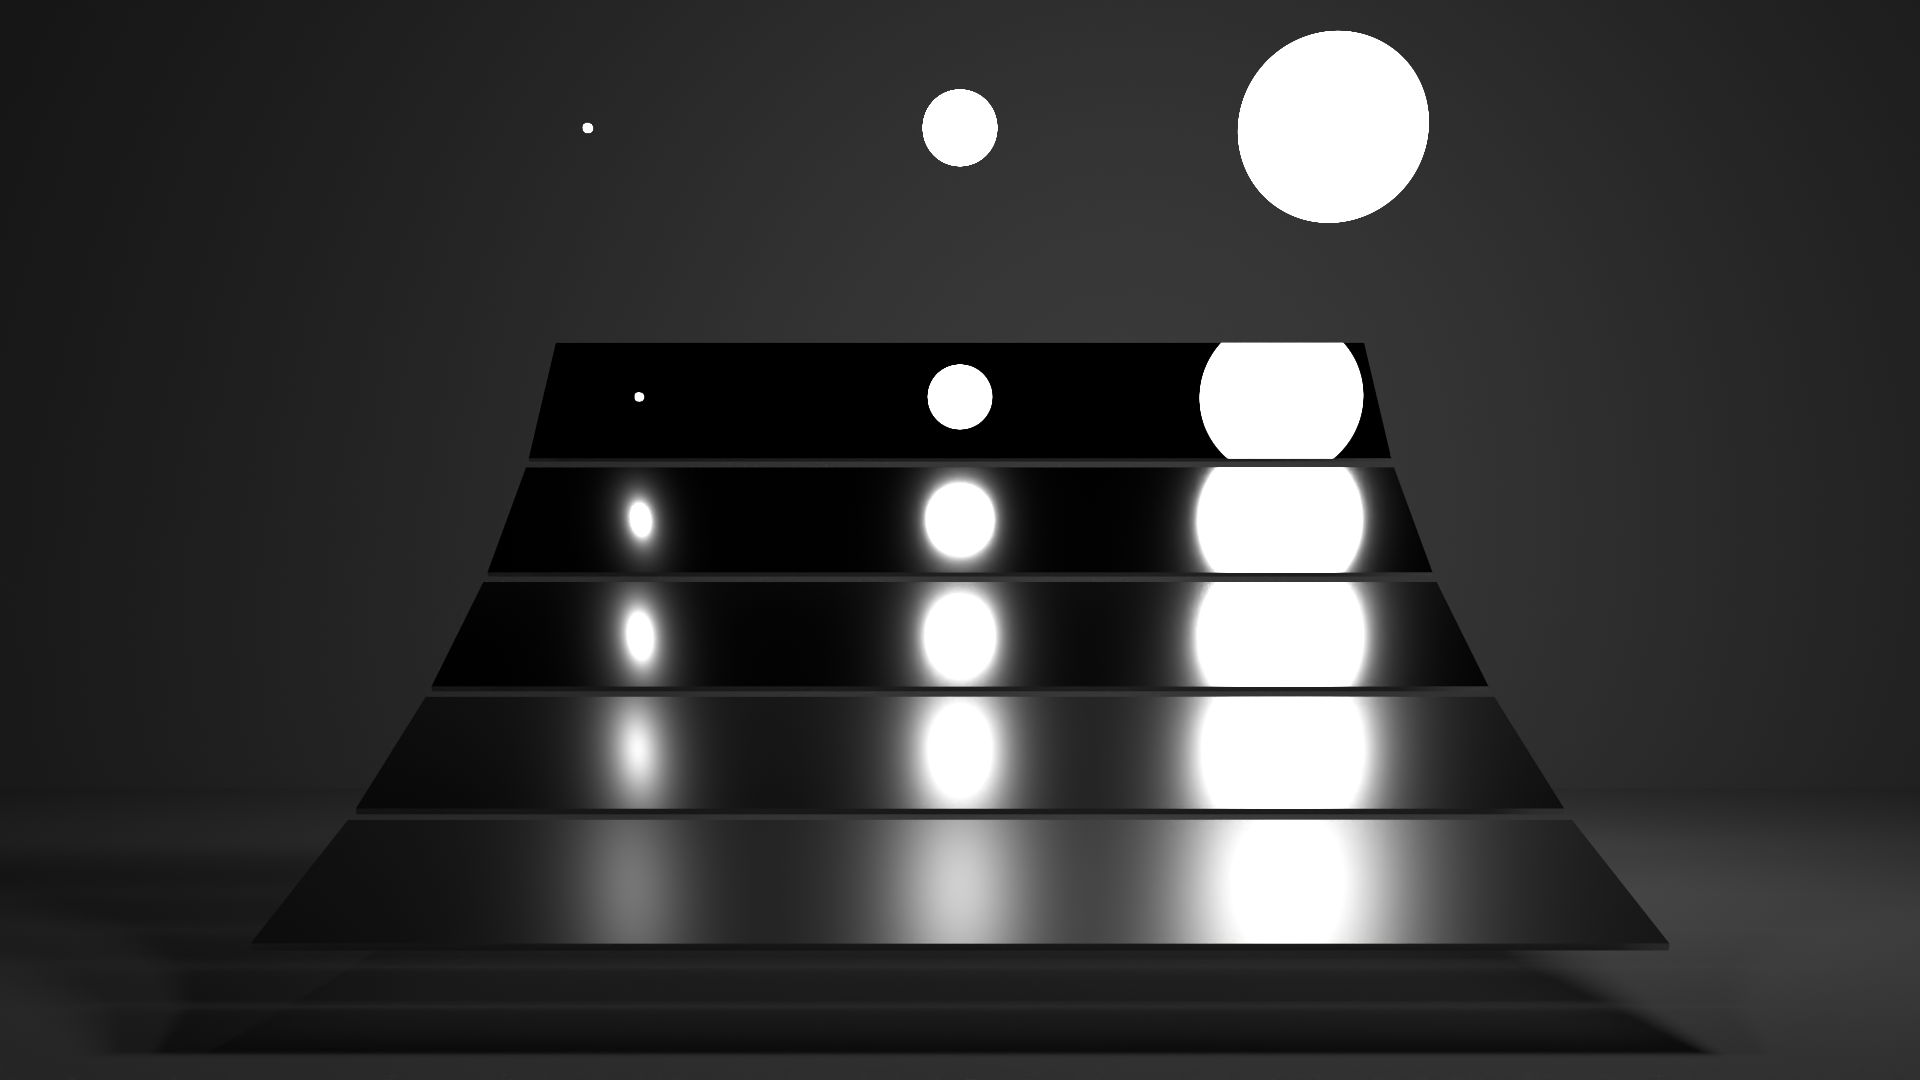
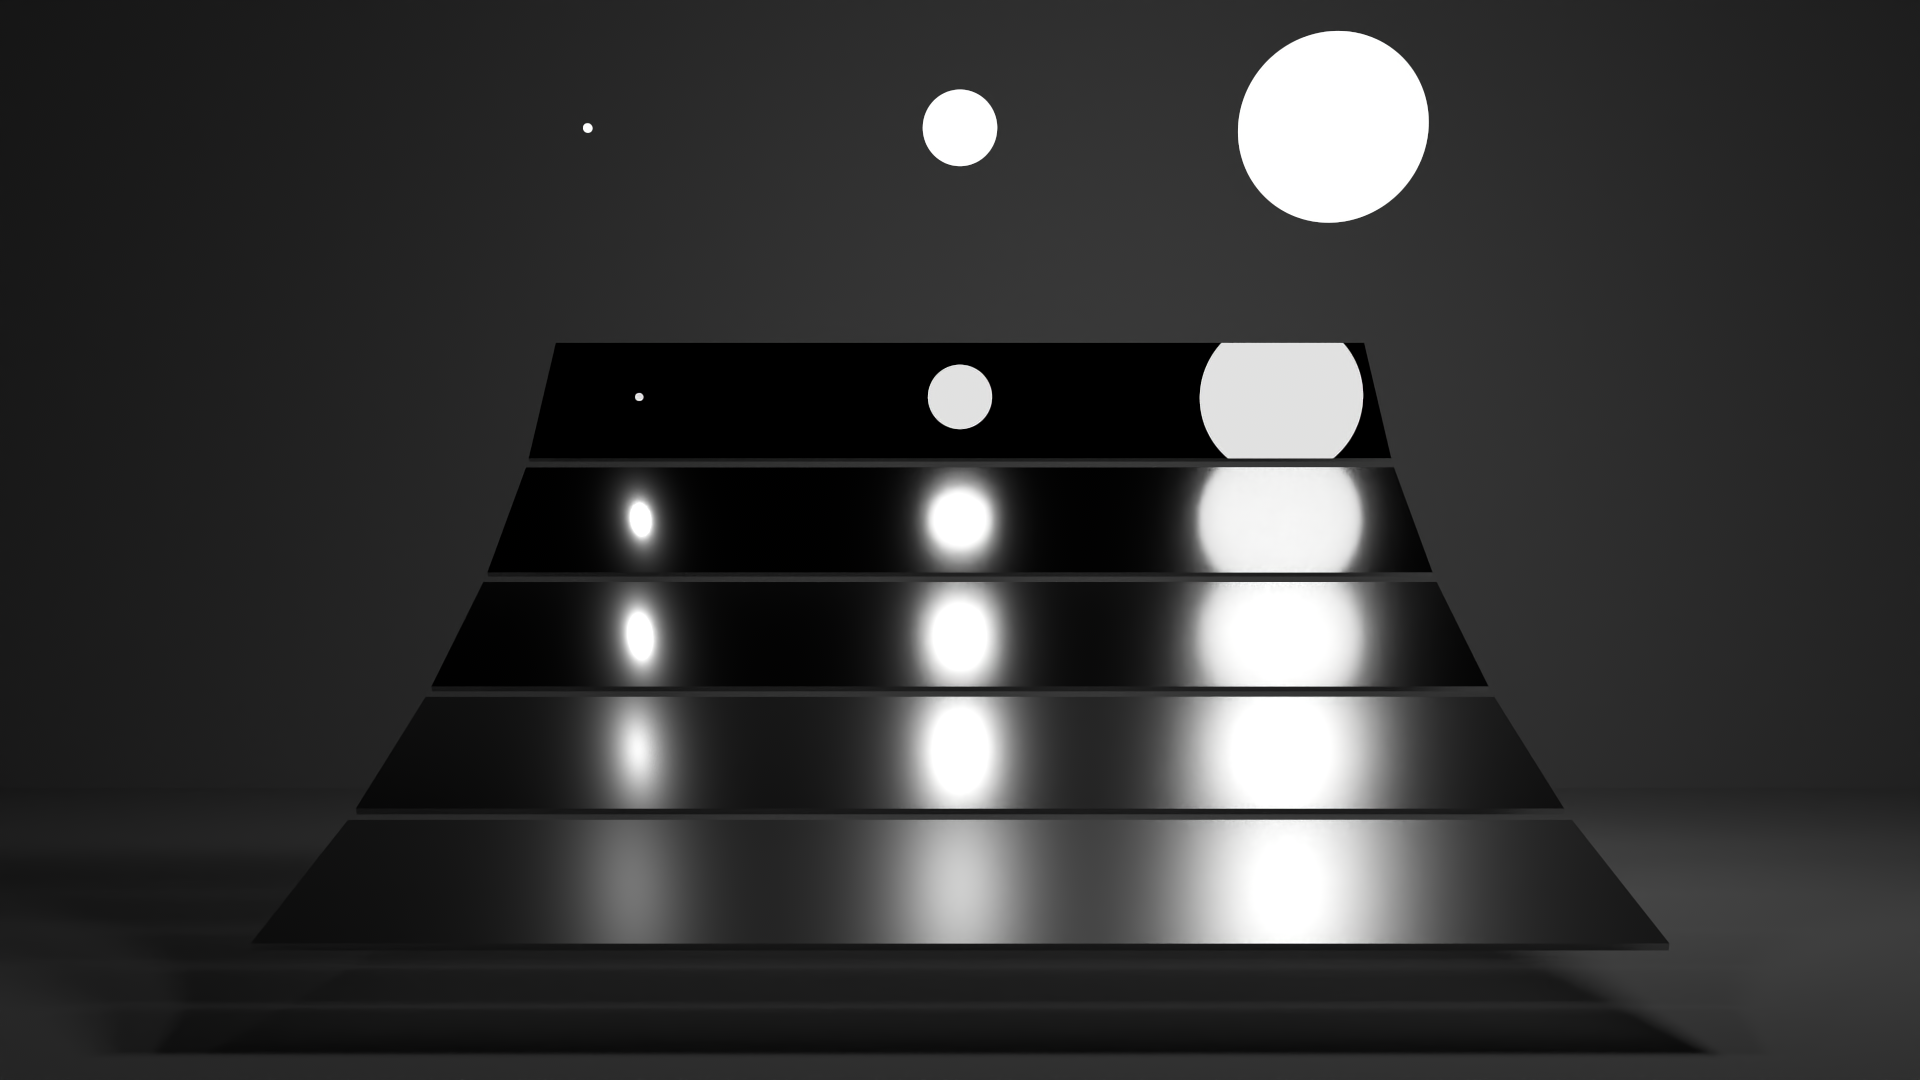
Fix issue with Veach MIS scene's light intensity
The Veach MIS scene's Emissive material and Light
objects were sharing the same intensity. This causes the
integrator to blow up leading to fireflies and heavily
aliased light sources. The spherical lights in the scene
were showing this aliasing. The fix is to drive
intensity from one or the other, not both. In this scene,
the Emissive material's intensity was set to 1.0 and the
Light sources are the ones to drive the scene's intensity.

diff --git a/scenes/veach_mis.rs b/scenes/veach_mis.rs
@@ -108,8 +108,8 @@ pub fn veach_mis_scene(width: Option<usize>, height: Option<usize>) -> Scene {
         (0.0, 0.20,   6.5),
         (-2.0, 0.50, 4.0)
     ];
-    for (x, r, intensity) in sphere_lights {
-        let tex = tex!(textures, Color::new(intensity, intensity, intensity));
+    for (x, r, _) in sphere_lights {
+        let tex = tex!(textures, Color::new(1.0, 1.0, 1.0));
         let mat = mat!(materials, Emissive::new());
         objects.push_into(Sphere::new(
             Vec3A::new(x, light_y, light_z),
